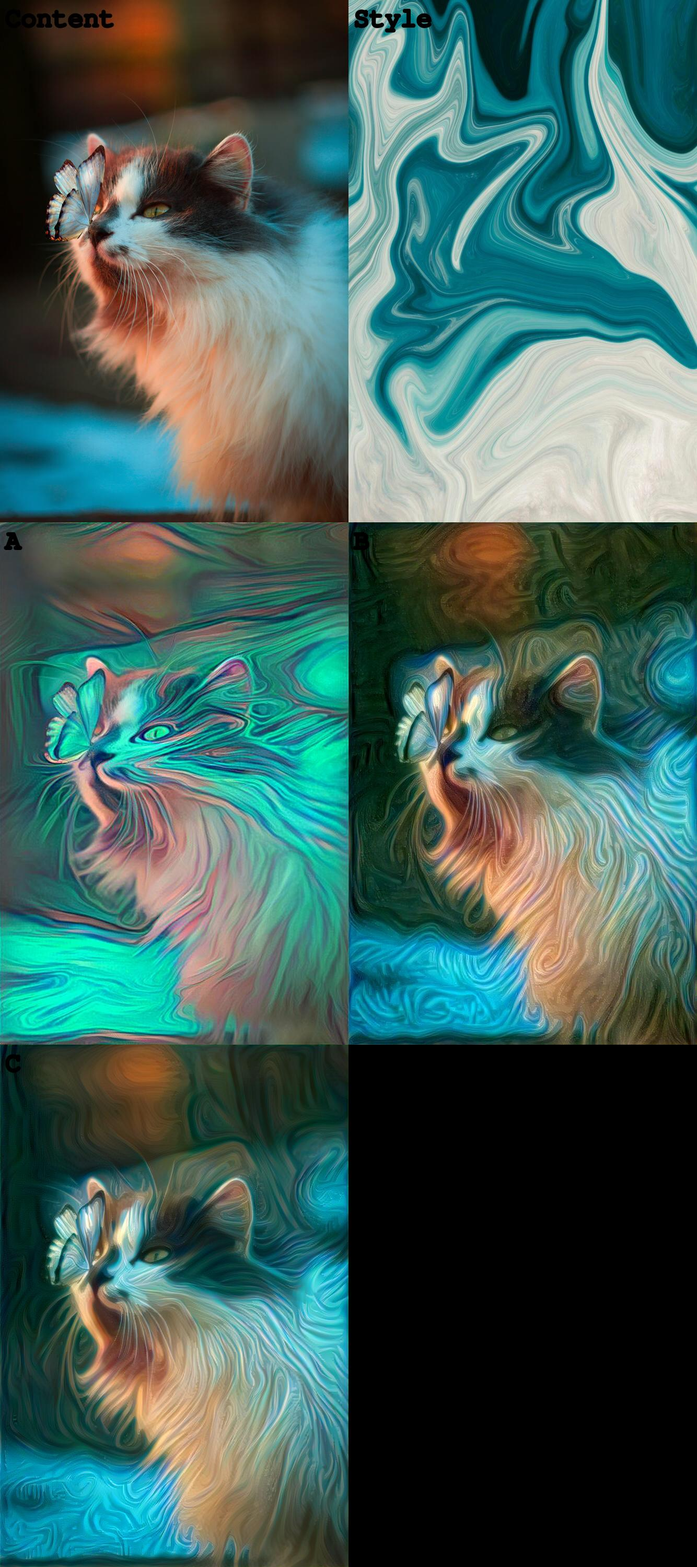
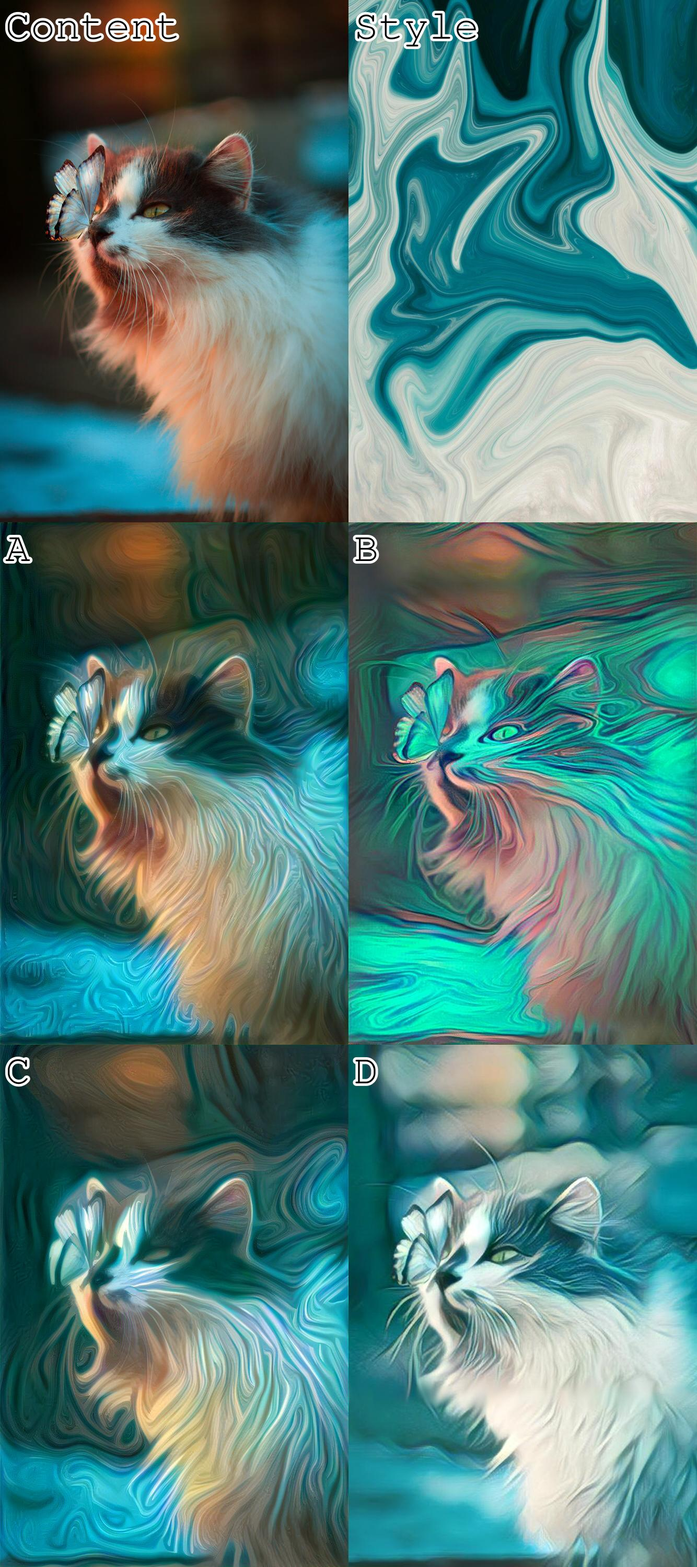
Update survey images.

diff --git a/stylized/survey/gen_survey.py b/stylized/survey/gen_survey.py
@@ -4,11 +4,11 @@ from PIL import Image, ImageDraw, ImageFont
 from os import scandir, system
 from random import choice
 
-FONT = ImageFont.truetype("Pillow/Tests/fonts/FreeMono.ttf", 50)
+FONT = ImageFont.truetype("Pillow/Tests/fonts/FreeMono.ttf", 80)
 
 
 def gen_survey_image(path):
-    labels = ['A', 'B', 'C']
+    labels = ['A', 'B', 'C', 'D']
     label_map = {}
 
     for entry in scandir(path):
@@ -49,12 +49,13 @@ def gen_survey_image(path):
     survey_img.paste(label_map["A"],       (0,       size[1]))
     survey_img.paste(label_map["B"],       (size[0], size[1]))
     survey_img.paste(label_map["C"],       (0,       size[1] * 2))
+    survey_img.paste(label_map["D"],       (size[0], size[1] * 2))
 
     survey_img.save("survey_%s.jpg" % path)
 
 
 def label_img(img, label):
-    ImageDraw.Draw(img).text((10, 10), label, font=FONT, stroke_width=3, fill=(0,0,0))
+    ImageDraw.Draw(img).text((10, 10), label, font=FONT, stroke_width=5, fill=(0,0,0), stroke_fill=(255, 255, 255))
 
 
 system("echo '' > randomization_key.txt")
